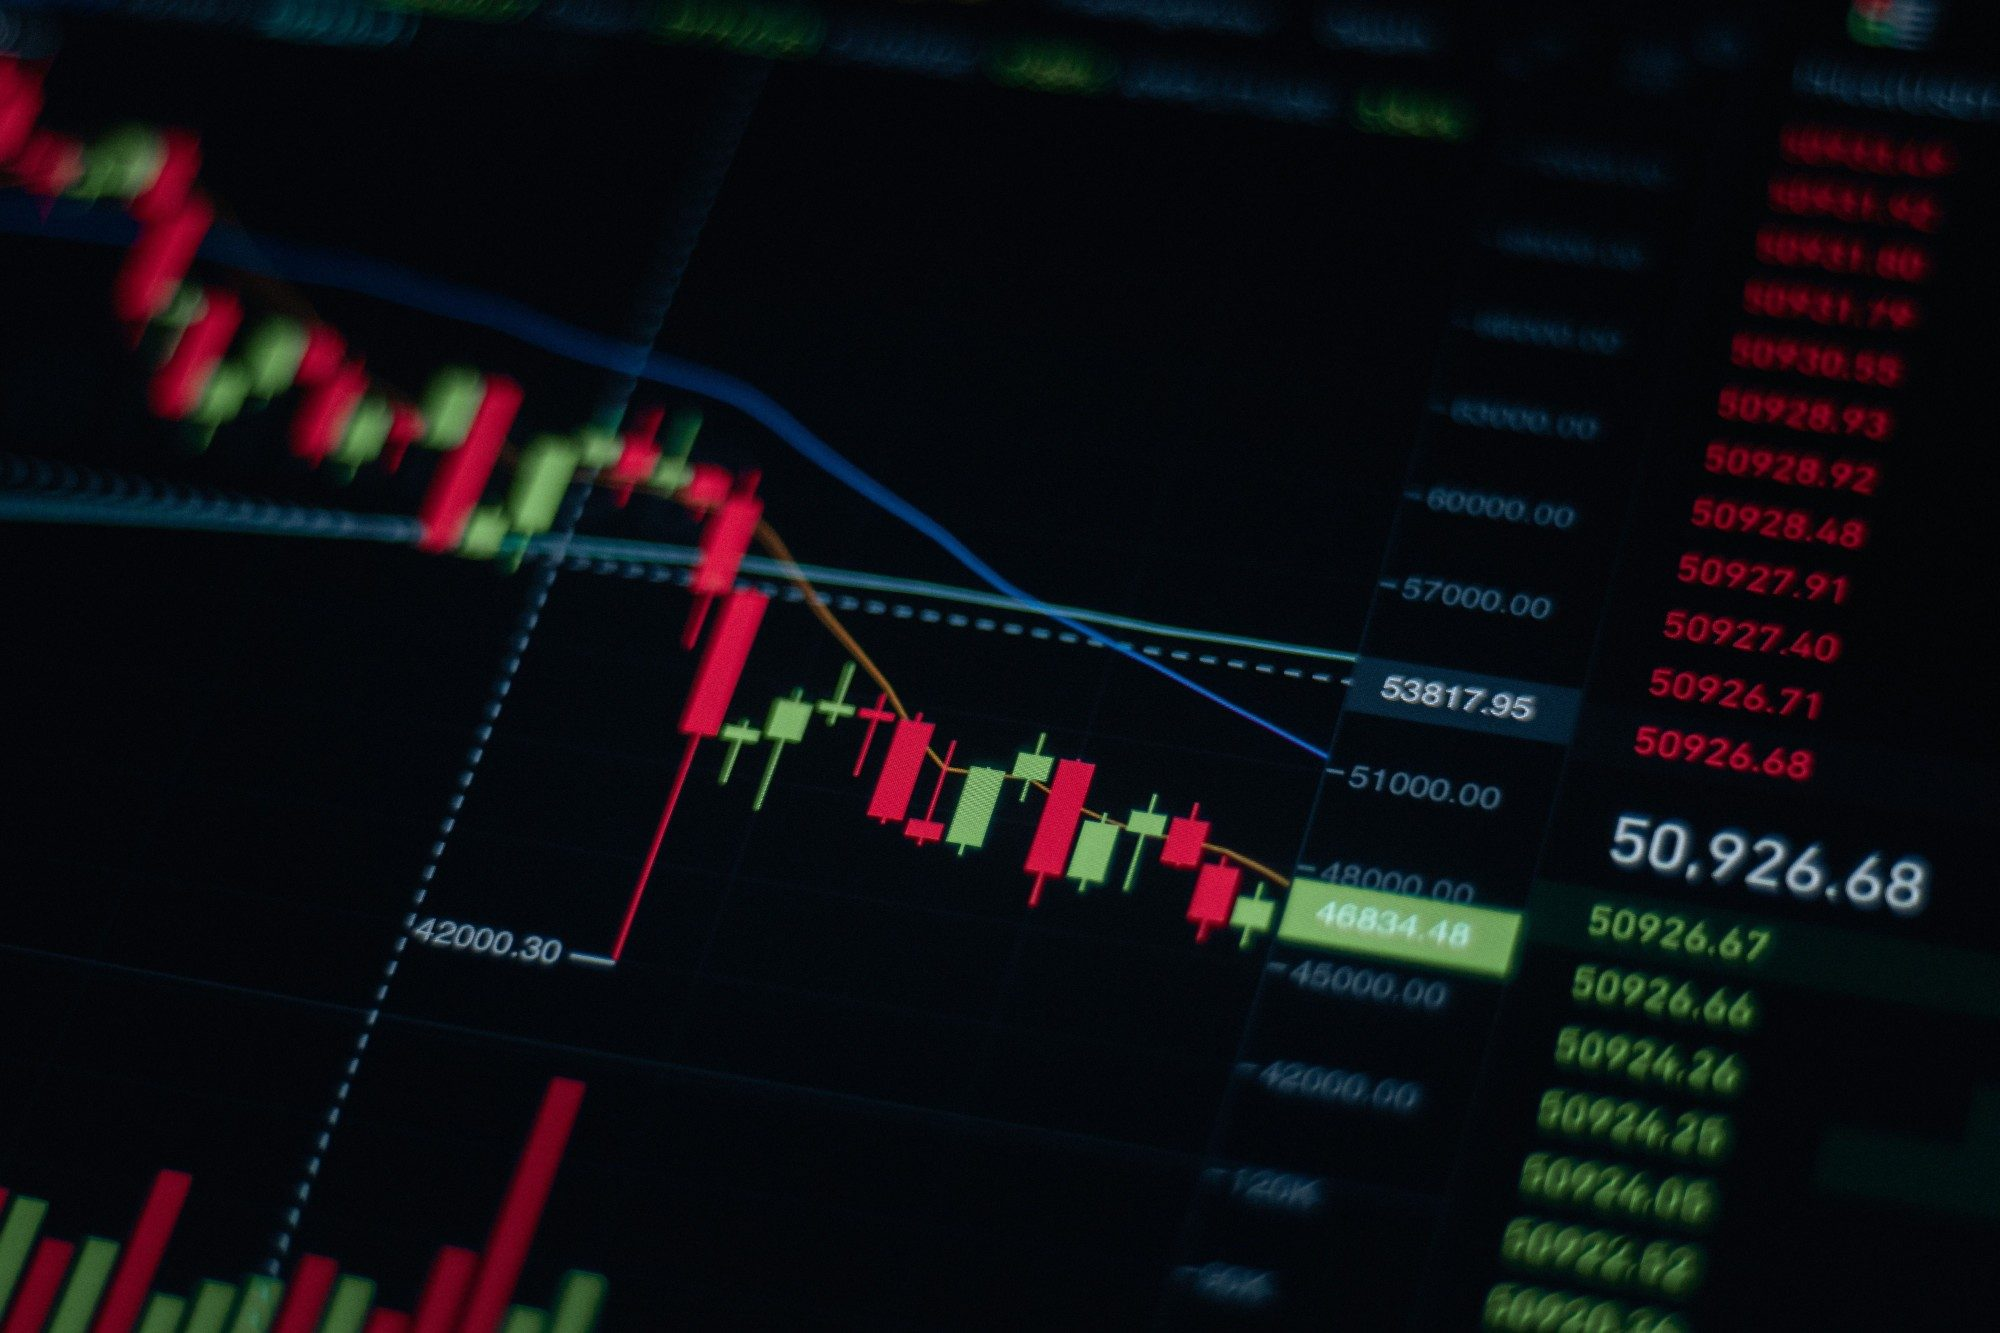
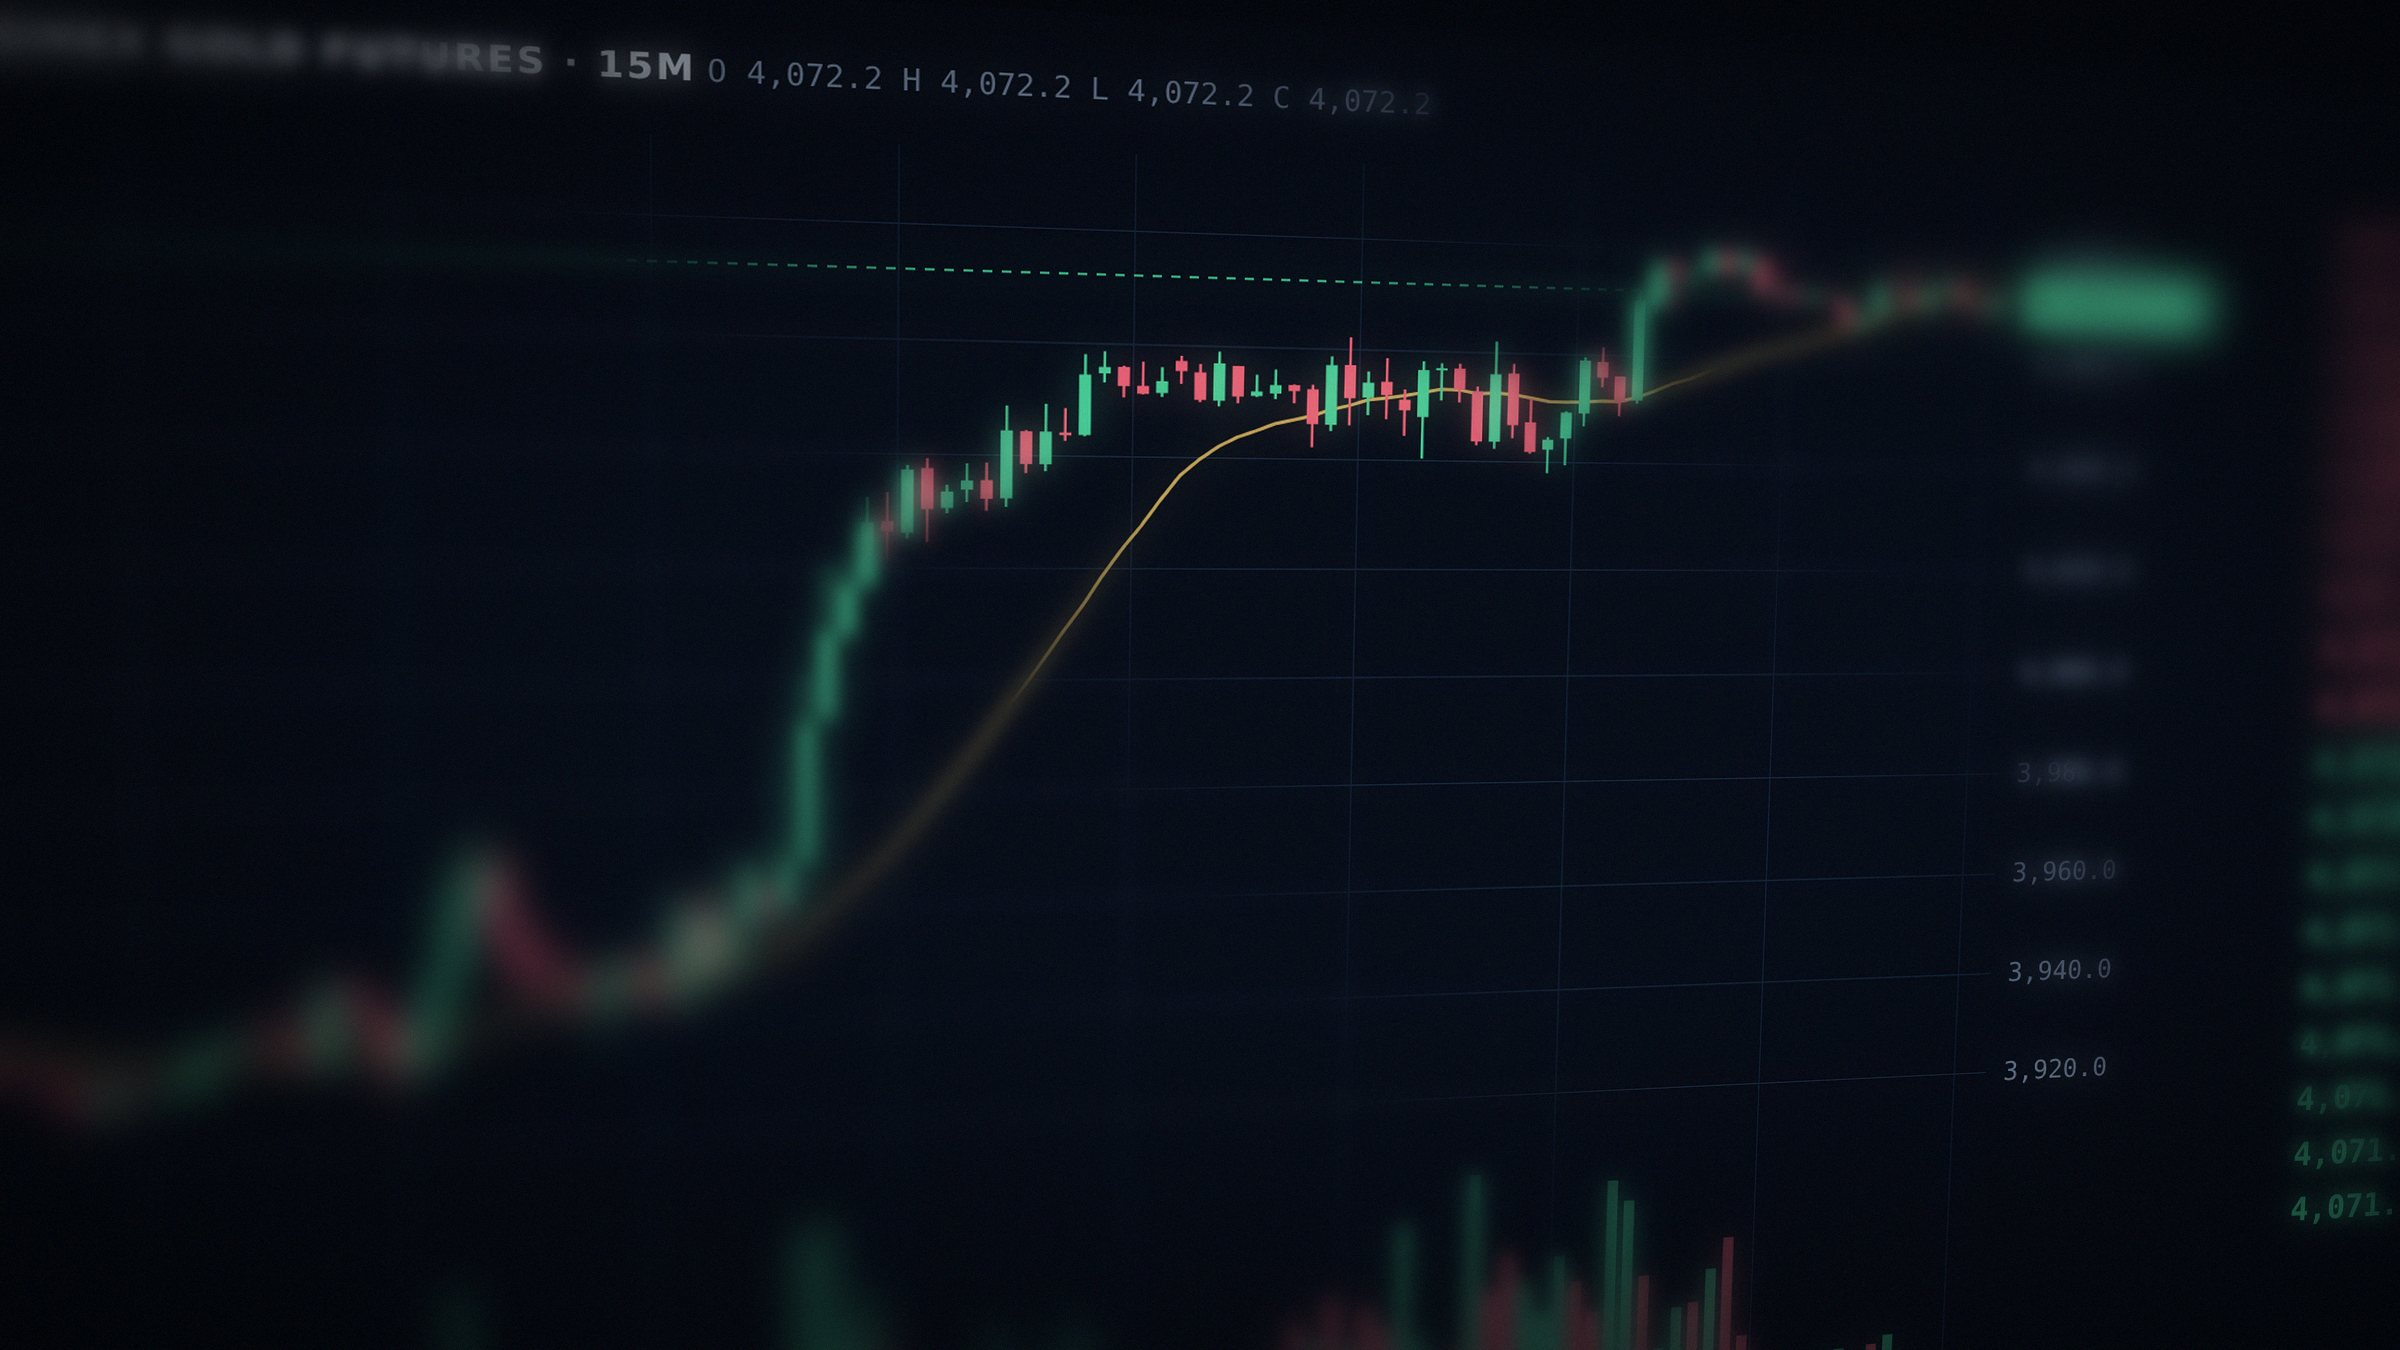
Replace the Approach photo with a real gold futures chart
The previous screen photo showed Bitcoin-level prices. The new image is
drawn from actual COMEX gold (GC) 15-minute candles, rendered as a trading
screen and given a photographic tilt, shallow focus and glow so it matches
the other photos.

Claude-Session: https://claude.ai/code/session_016hnwjq5ufYWDCg1kH5QXz4

diff --git a/app/content.ts b/app/content.ts
@@ -84,7 +84,7 @@ export const PLATFORMS = {
 // Current photos were supplied by Quantara Systems.
 export const PHOTOS = {
   hero: { src: '/photos/hero.jpg', alt: 'Rows of fine gold bullion bars' },
-  approach: { src: '/photos/approach.jpg', alt: 'Candlestick price chart on a trading screen' },
+  approach: { src: '/photos/approach.jpg', alt: 'Candlestick chart of COMEX gold futures on a trading screen' },
   risk: { src: '/photos/risk.jpg', alt: 'Server racks in a data center' },
   engagement: { src: '/photos/engagement.jpg', alt: 'Market data charts on a monitor' },
 };
